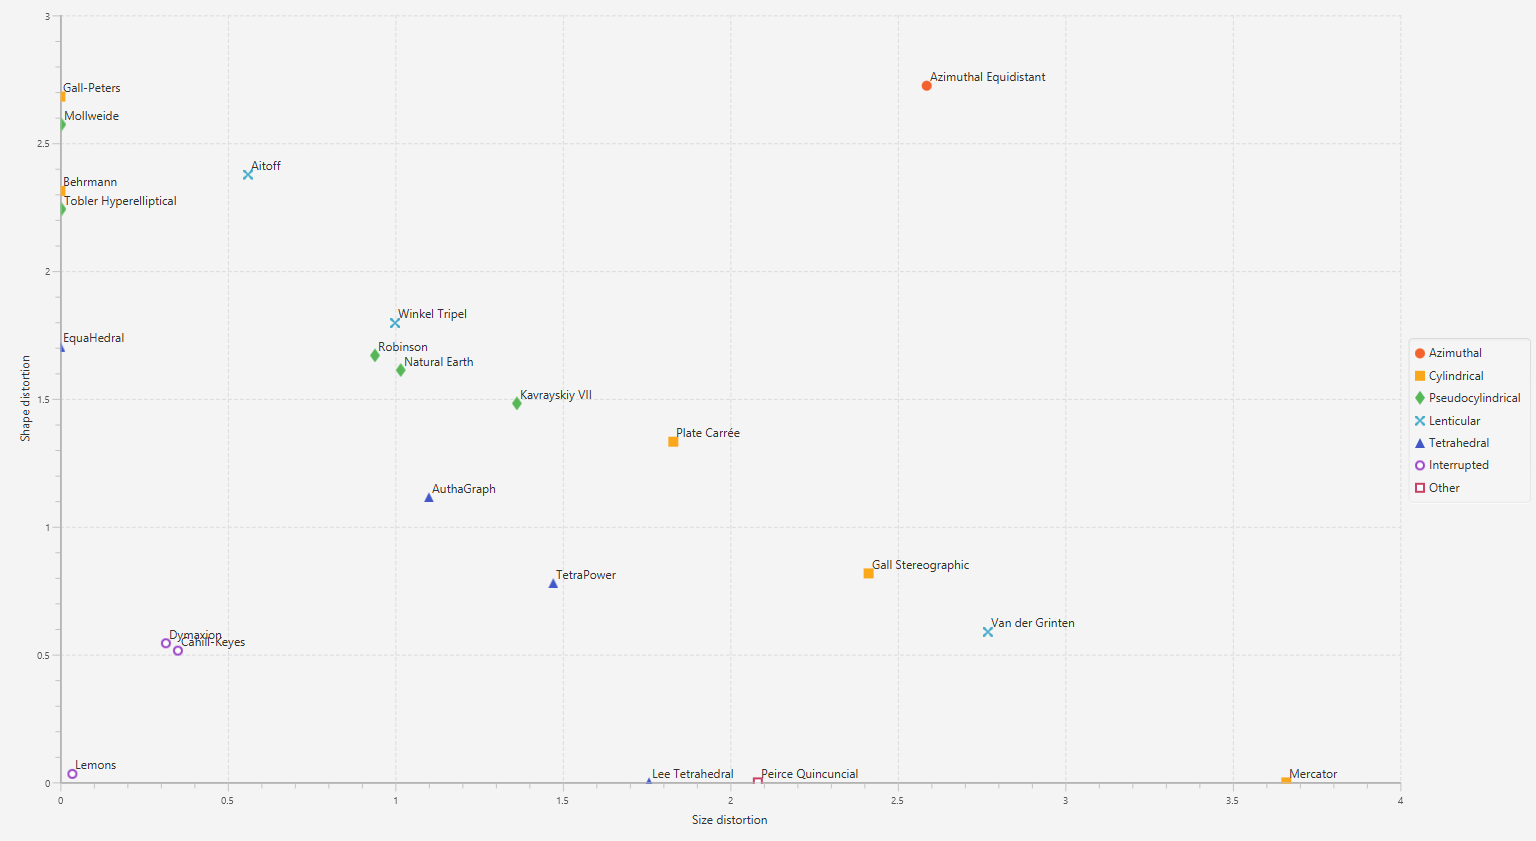
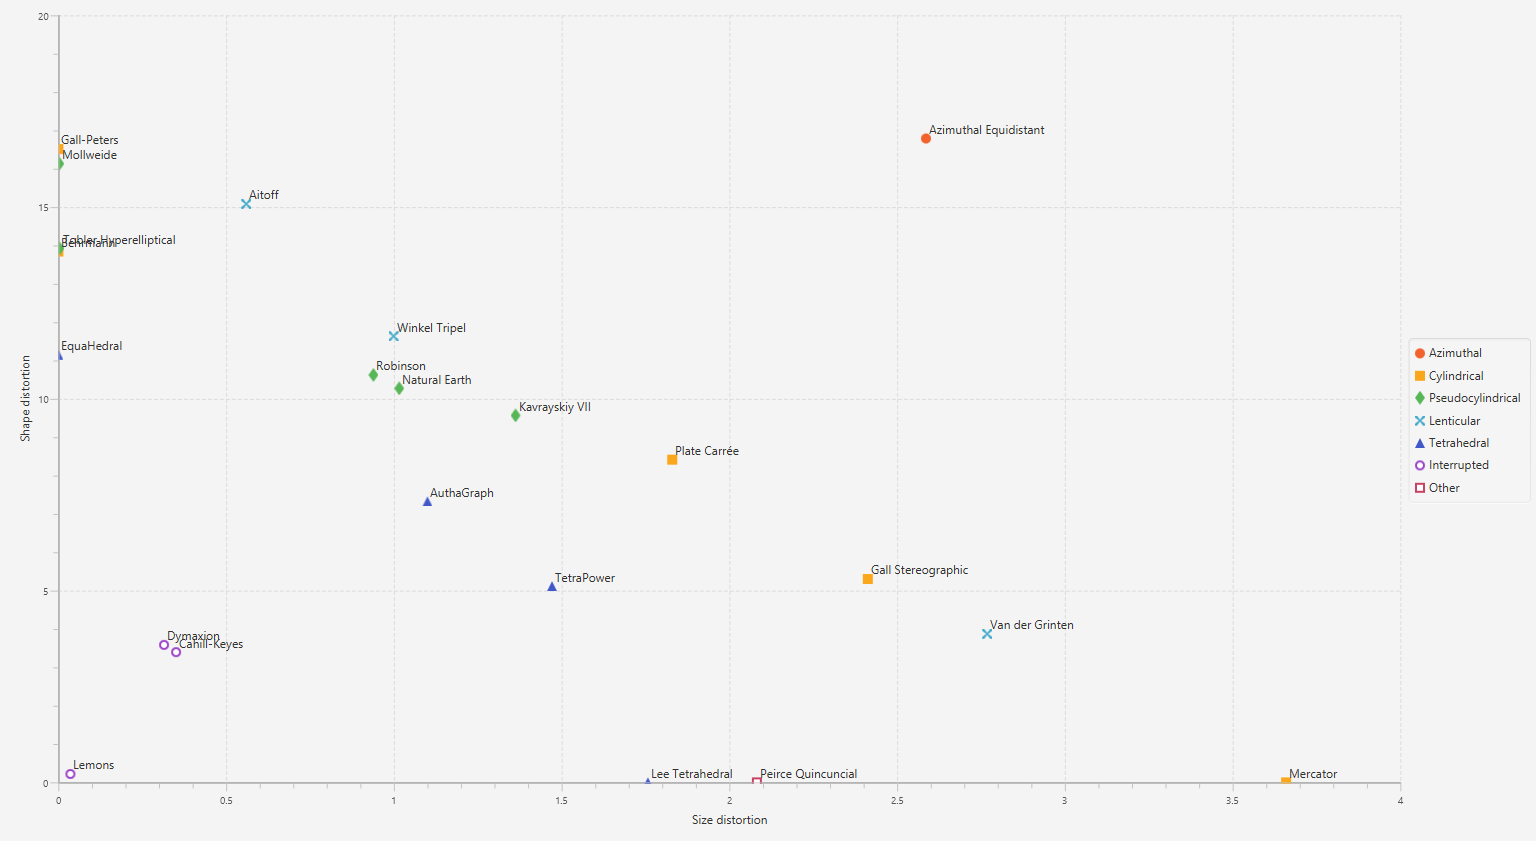
Angles vs factors
I changed my shape distortion metric to be max angle displacement instead of stretch factor in decibels, hoping it would weigh moderate distortion higher and severe distortion lower. It didn't really do anything. I think I'll just set it back to how it was, because I liked it that way.

diff --git a/src/apps/MapAnalyzer.java b/src/apps/MapAnalyzer.java
@@ -24,8 +24,7 @@
 package apps;
 import java.io.File;
 import java.io.IOException;
-import java.util.function.DoubleUnaryOperator;
-
+import java.util.function.DoubleFunction;
 import javax.imageio.ImageIO;
 
 import dialogs.ProgressBarDialog;
@@ -146,14 +145,14 @@ public class MapAnalyzer extends MapApplication {
 	
 	
 	private Region buildTextDisplay() {
-		this.avgSizeDistort = new Text("...");
-		this.avgShapeDistort = new Text("...");
+		this.avgSizeDistort = new Text(". . .");
+		this.avgShapeDistort = new Text(". . .");
 		final Text txt = new Text("Blue areas are dilated, red areas are compressed, and black areas are stretched.");
 		txt.setWrappingWidth(GUI_WIDTH);
 		
 		VBox box = new VBox(3,
-				new HBox(new Label("Average size distortion: "),avgSizeDistort),
-				new HBox(new Label("Average shape distortion: "),avgShapeDistort),
+				new HBox(new Label("Average area distortion: "), avgSizeDistort),
+				new HBox(new Label("Average angle distortion: "), avgShapeDistort),
 				txt);
 		box.setAlignment(Pos.CENTER_LEFT);
 		return box;
@@ -173,7 +172,7 @@ public class MapAnalyzer extends MapApplication {
 		this.shapeChart = new BarChart<String, Number>(new CategoryAxis(), new NumberAxis());
 		this.shapeChart.setPrefWidth(CHART_WIDTH);
 		this.shapeChart.setPrefHeight(IMG_WIDTH/2);
-		this.shapeChart.getXAxis().setLabel("Stretch factor");
+		this.shapeChart.getXAxis().setLabel("Angle displacement");
 		this.shapeChart.setBarGap(0);
 		this.shapeChart.setCategoryGap(0);
 		this.shapeChart.setAnimated(false);
@@ -190,8 +189,8 @@ public class MapAnalyzer extends MapApplication {
 			sizeChart.getData().clear();
 			shapeChart.getData().clear();
 			
-			avgSizeDistort.setText("...");
-			avgShapeDistort.setText("...");
+			avgSizeDistort.setText("\u2026");
+			avgShapeDistort.setText("\u2026");
 		});
 		
 		loadParameters();
@@ -205,13 +204,13 @@ public class MapAnalyzer extends MapApplication {
 		final double[][][] distortionG = proj.calculateDistortion(Projection.globe(GLOBE_RES));
 		
 		Platform.runLater(() -> {
-				sizeChart.getData().add(histogram(distortionG[0],
-						-LN_10, LN_10, 20, Math::exp));
-				shapeChart.getData().add(histogram(distortionG[1],
-						   0.0, LN_10, 20, Math::exp));
+				sizeChart.getData().add(histogram(distortionG[0], -LN_10, LN_10, 20,
+						(x) -> Double.toString(Math.round(100*Math.exp(x))/100.)));
+				shapeChart.getData().add(histogram(distortionG[1], 0.0, Math.PI/2, 18,
+						(x) -> Integer.toString((int) Math.toDegrees(x))+"\u00B0"));
 				
-				avgSizeDistort.setText(format(Math2.stdDev(distortionG[0])/LN_10*10));
-				avgShapeDistort.setText(format(Math2.mean(distortionG[1])/LN_10*10));
+				avgSizeDistort.setText(format(Math2.toDecibels(Math2.stdDev(distortionG[0])))+"dB");
+				avgShapeDistort.setText(format(Math.toDegrees(Math2.mean(distortionG[1])))+"\u00B0");
 				
 				enable(ButtonType.UPDATE_MAP, ButtonType.SAVE_GRAPH);
 			});
@@ -271,7 +270,7 @@ public class MapAnalyzer extends MapApplication {
 			for (int x = 0; x < distortion[0][y].length; x ++) {
 				final double sizeDistort = distortion[0][y][x], shapeDistort = distortion[1][y][x];
 				final double sizeContour = Math.round(sizeDistort/(LN_10/10))*LN_10/10; //contour the size by decibels
-				final double shapeContour = Math.round(shapeDistort/(LN_10/20))*LN_10/20; //contour the size by semidecibels
+				final double shapeContour = Math.round(shapeDistort/(Math.PI/36))*Math.PI/36; //contour the size by semidecibels
 				if (Double.isNaN(sizeDistort) || Double.isNaN(shapeDistort)) {
 					writer.setArgb(x, y, 0);
 					continue;
@@ -279,14 +278,14 @@ public class MapAnalyzer extends MapApplication {
 				
 				final int r, g, b;
 				if (sizeDistort < 0) { //if compressing
-					r = (int)(255.9*Math.exp(-shapeContour*.6));
-					g = (int)(255.9*Math.exp(-shapeContour*.6)*Math.exp(sizeContour*.6));
+					r = (int)(255.9*(1-shapeContour/(Math.PI/2)));
+					g = (int)(255.9*(1-shapeContour/(Math.PI/2))*Math.exp(sizeContour*.6));
 					b = g;
 				}
 				else { //if dilating
-					r = (int)(255.9*Math.exp(-shapeContour*.6)*Math.exp(-sizeContour*.6));
+					r = (int)(255.9*(1-shapeContour/(Math.PI/2))*Math.exp(-sizeContour*.6));
 					g = r; //I find .6 to be a rather visually pleasing sensitivity
-					b = (int)(255.9*Math.exp(-shapeContour*.6));
+					b = (int)(255.9*(1-shapeContour/(Math.PI/2)));
 				}
 				
 				final int argb = ((((((0xFF)<<8)+r)<<8)+g)<<8)+b;
@@ -298,7 +297,7 @@ public class MapAnalyzer extends MapApplication {
 	
 	
 	private static final Series<String, Number> histogram(double[][] values,
-			double min, double max, int num, DoubleUnaryOperator converter) {
+			double min, double max, int num, DoubleFunction<String> converter) {
 		int[] hist = new int[num+1]; //this array is the histogram values for min, min+dx, ..., max-dx, max
 		int tot = 0;
 		for (double[] row: values) {
@@ -313,9 +312,8 @@ public class MapAnalyzer extends MapApplication {
 		}
 		Series<String, Number> output = new Series<String, Number>();
 		for (int i = 0; i <= num; i ++) {
-			double x = converter.applyAsDouble(i*(max-min)/num+min);
 			output.getData().add(new Data<String, Number>(
-					Double.toString(Math.round(100*x)/100.),
+					converter.apply(i*(max-min)/num+min),
 					(double)hist[i]/tot*100));
 		}
 		return output;

diff --git a/src/apps/MapPlotter.java b/src/apps/MapPlotter.java
@@ -47,19 +47,18 @@ import javafx.scene.control.Label;
 import javafx.scene.layout.AnchorPane;
 import javafx.scene.layout.StackPane;
 import javafx.stage.Stage;
+import maps.Arbitrary;
 import maps.Azimuthal;
 import maps.CahillKeyes;
 import maps.Cylindrical;
 import maps.Lenticular;
 import maps.Misc;
-import maps.MyProjections;
+import maps.Polyhedral;
 import maps.Projection;
 import maps.Pseudocylindrical;
-import maps.Arbitrary;
-import maps.Polyhedral;
 import maps.Tobler;
-import maps.Waterman;
 import maps.WinkelTripel;
+import utils.Math2;
 
 /**
  * A simple script that creates an annotated ScatterPlot of map projections
@@ -67,8 +66,6 @@ import maps.WinkelTripel;
  * @author jkunimune
  */
 public class MapPlotter extends Application {
-
-	private static final double DECIBEL = Math.log(10)/10;
 	
 	private static final double GLOBE_RES = .005;
 	
@@ -101,7 +98,7 @@ public class MapPlotter extends Application {
 		final ScatterChart<Number, Number> plot =
 				new ScatterChart<Number, Number>(
 				new NumberAxis("Size distortion", 0, 4, .5),
-				new NumberAxis("Shape distortion", 0, 3, .5));
+				new NumberAxis("Shape distortion", 0, 20, 5));
 		plot.setLegendSide(Side.RIGHT);
 		final AnchorPane overlay = new AnchorPane();
 		stack = new StackPane(plot, overlay);
@@ -152,7 +149,7 @@ public class MapPlotter extends Application {
 			final double[] params = projection.getDefaultParameters();
 			final double distortion[] = projection.avgDistortion(points, params);
 			final Data<Number, Number> datum = new Data<Number, Number>(
-					distortion[0]/DECIBEL, distortion[1]/DECIBEL);
+					Math2.toDecibels(distortion[0]), Math.toDegrees(distortion[1]));
 			series.getData().add(datum);
 			final Label lbl = new Label(projection.getName());
 			overlay.getChildren().add(lbl);

diff --git a/src/apps/MapApplication.java b/src/apps/MapApplication.java
@@ -42,7 +42,6 @@ import javafx.application.Platform;
 import javafx.collections.FXCollections;
 import javafx.collections.ObservableList;
 import javafx.geometry.Pos;
-import javafx.scene.Node;
 import javafx.scene.Scene;
 import javafx.scene.control.Alert;
 import javafx.scene.control.Button;
@@ -69,6 +68,7 @@ import javafx.scene.layout.Priority;
 import javafx.scene.layout.Region;
 import javafx.scene.layout.StackPane;
 import javafx.scene.layout.VBox;
+import javafx.scene.paint.Color;
 import javafx.scene.text.Text;
 import javafx.stage.FileChooser;
 import javafx.stage.Stage;
@@ -183,7 +183,7 @@ public abstract class MapApplication extends Application {
 	public void start(Stage root) {
 		this.root = root;
 		this.root.setTitle(this.name);
-		this.root.setScene(new Scene(new StackPane(makeWidgets())));
+		this.root.setScene(new Scene(new StackPane(makeWidgets()), Color.ANTIQUEWHITE)); //Why can't I set this color?
 		this.root.show();
 		
 		this.suppressListeners.set();
@@ -192,7 +192,7 @@ public abstract class MapApplication extends Application {
 	}
 	
 	
-	protected abstract Node makeWidgets();
+	protected abstract Region makeWidgets();
 	
 	
 	/**

diff --git a/src/maps/Projection.java b/src/maps/Projection.java
@@ -367,8 +367,9 @@ public abstract class Projection {
 		
 		final double s1ps2 = Math.hypot((pE[0]-pC[0])+(pN[1]-pC[1]), (pE[1]-pC[1])-(pN[0]-pC[0]));
 		final double s1ms2 = Math.hypot((pE[0]-pC[0])-(pN[1]-pC[1]), (pE[1]-pC[1])+(pN[0]-pC[0]));
-		output[1] = Math.abs(Math.log(Math.abs((s1ps2-s1ms2)/(s1ps2+s1ms2)))); //the first output is the shape (angle) distortion
-		if (Math.abs(output[1]) > 25)
+		final double sig = Math.abs((s1ps2+s1ms2)/(s1ps2-s1ms2));
+		output[1] = Math.atan((sig - 1)/Math.sqrt(sig)/2); //the first output is the shape (angle) distortion
+		if (sig > 1e10)
 			output[1] = Double.NaN; //discard outliers
 		
 		return output;

diff --git a/src/maps/Azimuthal.java b/src/maps/Azimuthal.java
@@ -90,7 +90,7 @@ public class Azimuthal {
 					4, 4, 0b0111, Type.AZIMUTHAL, Property.GNOMONIC, 2) {
 		
 		public double[] project(double lat, double lon) {
-			if (lat < 0.2) 	lat = 0.2;
+			if (lat < 0.01) 	lat = 0.01;
 			final double r = Math.tan(Math.PI/2 - lat);
 			return new double[] { r*Math.sin(lon), -r*Math.cos(lon)};
 		}

diff --git a/src/utils/Math2.java b/src/utils/Math2.java
@@ -171,6 +171,11 @@ public class Math2 {
 	}
 	
 	
+	public static double toDecibels(double ratio) {
+		return ratio/Math.log(10)*10;
+	}
+	
+	
 	public static double sind(double angdeg) {
 		return Math.sin(Math.toRadians(angdeg));
 	}
